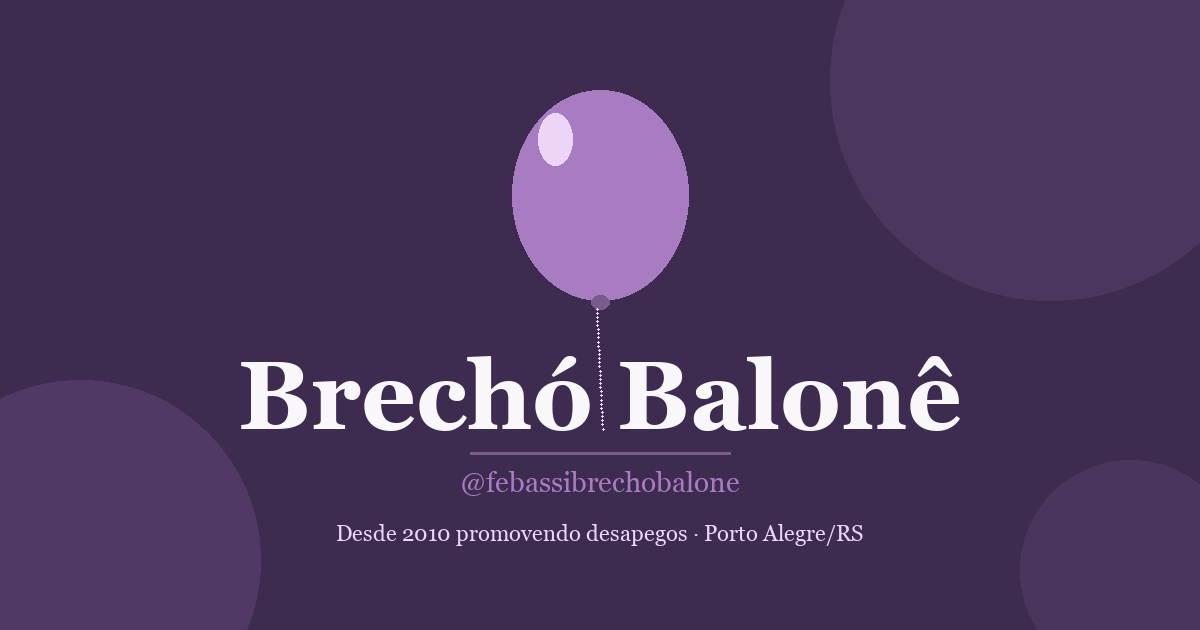
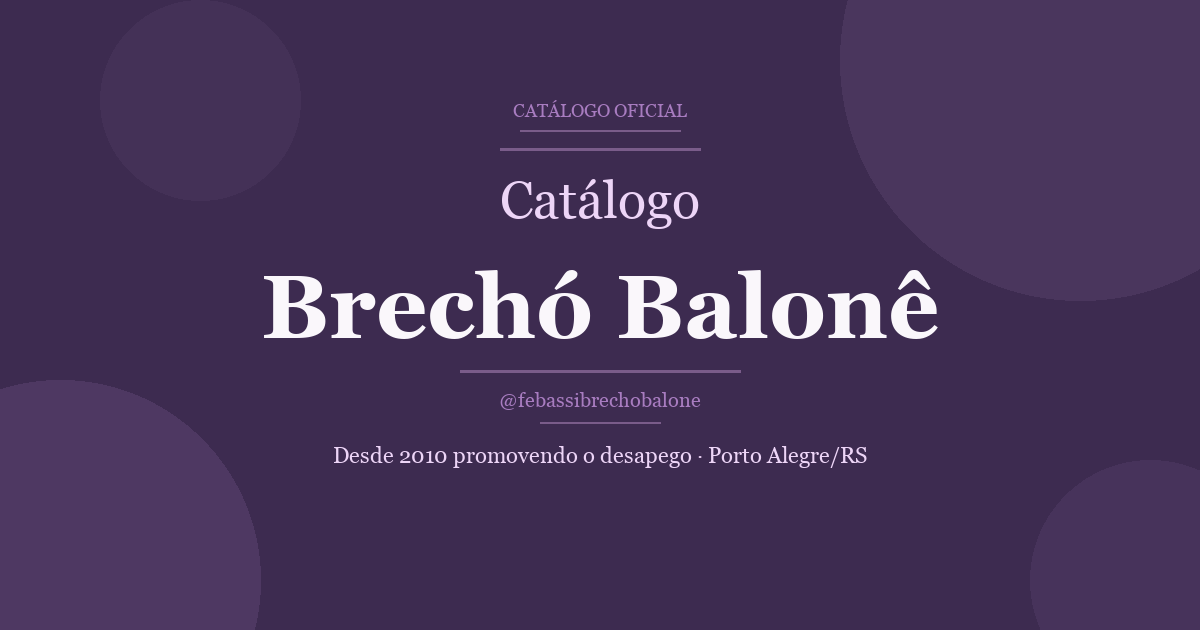
Atualiza og-image e textos do hero
- og-image: sem balão, título correto, arroba menor, frase corrigida
- Hero: kicker mais visível, frase "promovendo o desapego"

Changed region(s): [[0.185, 0.1206, 0.8017, 0.7841], [0.2775, 0.8143, 0.7092, 0.8746]]

diff --git a/index.html b/index.html
@@ -74,7 +74,7 @@
     .hero::before { content:''; position:absolute; width:200px; height:200px; border-radius:50%; background:var(--lilas-pale); opacity:0.5; top:-70px; right:-60px; pointer-events:none; }
     .hero::after  { content:''; position:absolute; width:120px; height:120px; border-radius:50%; background:var(--lilas-pale); opacity:0.3; bottom:-30px; left:-30px; pointer-events:none; }
 
-    .hero-kicker { font-size: 10px; letter-spacing: 0.22em; text-transform: uppercase; color: var(--roxo-medio); margin-bottom: 12px; font-weight: 500; }
+    .hero-kicker { font-size: 10px; letter-spacing: 0.22em; text-transform: uppercase; color: var(--roxo); margin-bottom: 12px; font-weight: 700; }
     .hero h1 { font-family: 'Playfair Display', serif; font-size: 34px; font-weight: 700; color: var(--roxo); line-height: 1.1; margin-bottom: 8px; }
     .hero h1 em { color: var(--lilas); font-style: italic; font-weight: 500; }
     .hero p { font-size: 13px; color: var(--roxo-medio); margin-bottom: 22px; line-height: 1.6; font-weight: 400; }
@@ -274,9 +274,9 @@
   </header>
 
   <section class="hero">
-    <p class="hero-kicker">Brechó feminino · Curadoria premium</p>
+    <p class="hero-kicker">Brechó Balonê · Fê Bassi</p>
     <h1>Brechó Balonê<br><em>@febassibrechobalone</em></h1>
-    <p>Desde 2010 promovendo desapegos</p>
+    <p>Desde 2010 promovendo o desapego</p>
     <div class="hero-btns">
       <a href="#catalogo" class="btn-dark">Ver catálogo</a>
       <a href="#" class="btn-ghost" id="link-whats-hero">